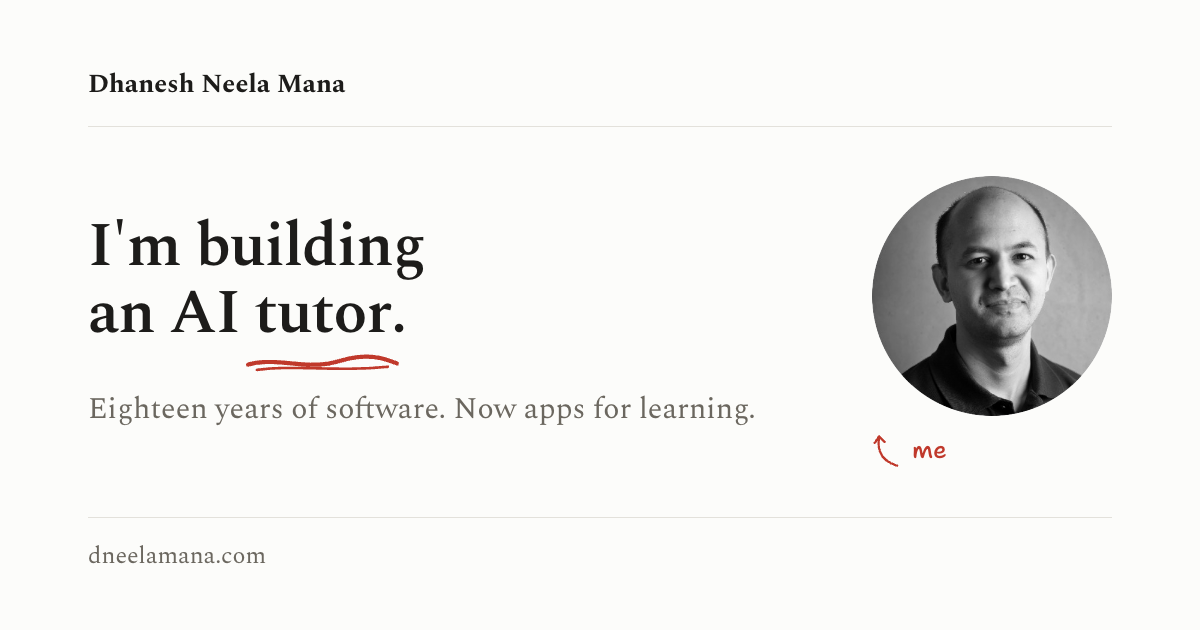
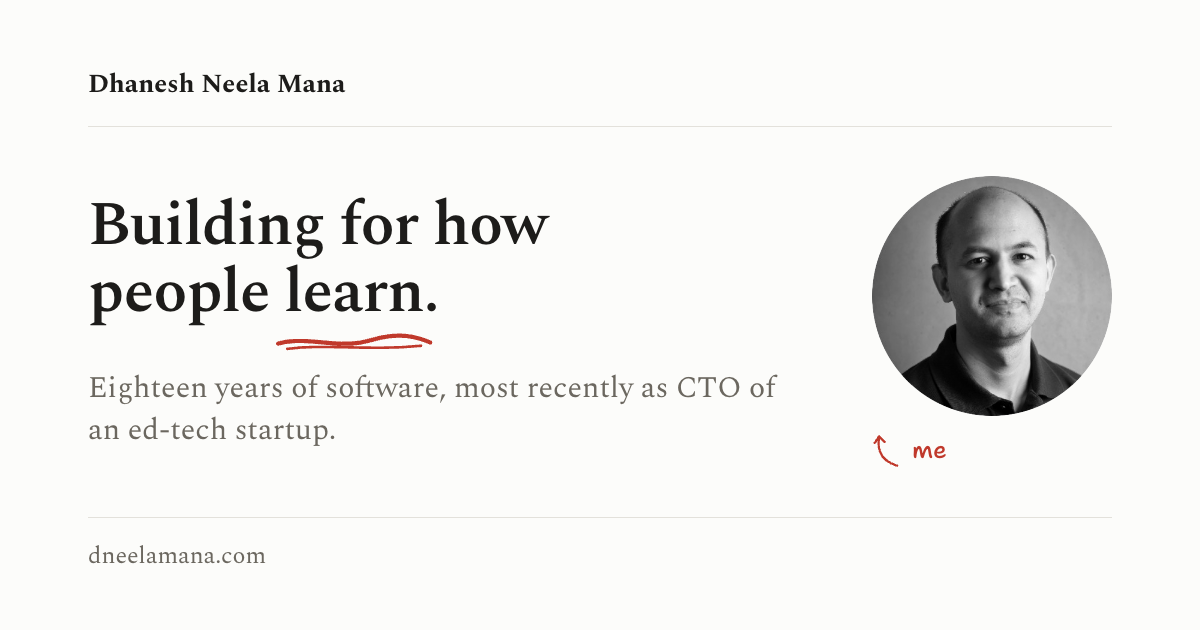
Headline: "Building for how people learn"
Replaces "I'm building an AI tutor" in the hero, tab title and OG image.
OG tagline now carries the credentials line instead of repeating "learning".

Changed region(s): [[0.0617, 0.3016, 0.6475, 0.7238]]

diff --git a/scripts/og.html b/scripts/og.html
@@ -75,8 +75,8 @@
   <div class="card">
     <div class="top">Dhanesh Neela Mana</div>
     <div class="text">
-      <h1>I'm building<br>an AI <span class="mark">tutor<svg viewBox="0 0 200 20" preserveAspectRatio="none" aria-hidden="true"><path d="M2 12 C 40 4, 80 18, 120 9 S 180 6, 198 11" fill="none" stroke="#C0392B" stroke-width="4" stroke-linecap="round"/><path d="M14 17 C 60 12, 120 19, 186 14" fill="none" stroke="#C0392B" stroke-width="2.5" stroke-linecap="round"/></svg></span>.</h1>
-      <div class="tag">Eighteen years of software. Now apps for learning.</div>
+      <h1>Building for how<br>people <span class="mark">learn<svg viewBox="0 0 200 20" preserveAspectRatio="none" aria-hidden="true"><path d="M2 12 C 40 4, 80 18, 120 9 S 180 6, 198 11" fill="none" stroke="#C0392B" stroke-width="4" stroke-linecap="round"/><path d="M14 17 C 60 12, 120 19, 186 14" fill="none" stroke="#C0392B" stroke-width="2.5" stroke-linecap="round"/></svg></span>.</h1>
+      <div class="tag">Eighteen years of software, most recently as CTO of an ed-tech startup.</div>
     </div>
     <div class="side">
       <img class="portrait" src="../public/dhanesh.jpg" alt="" />
